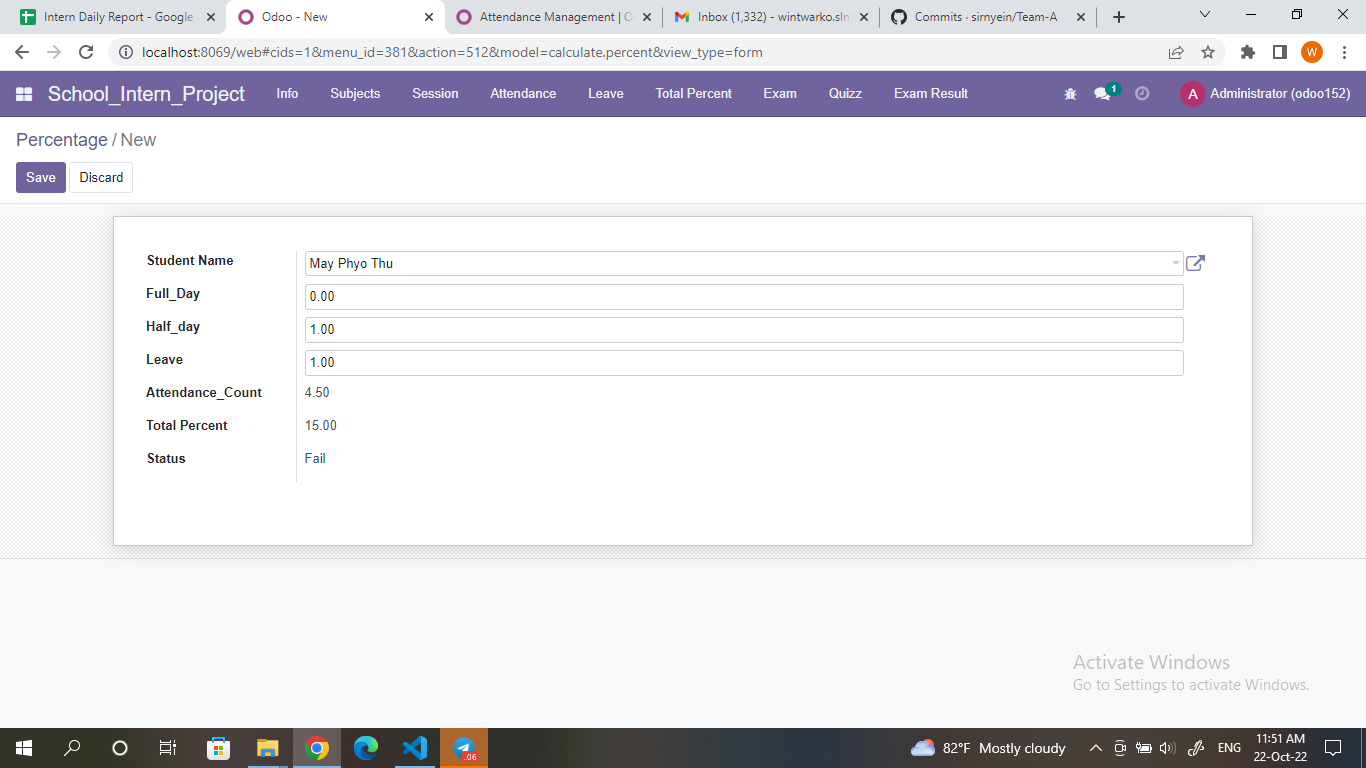
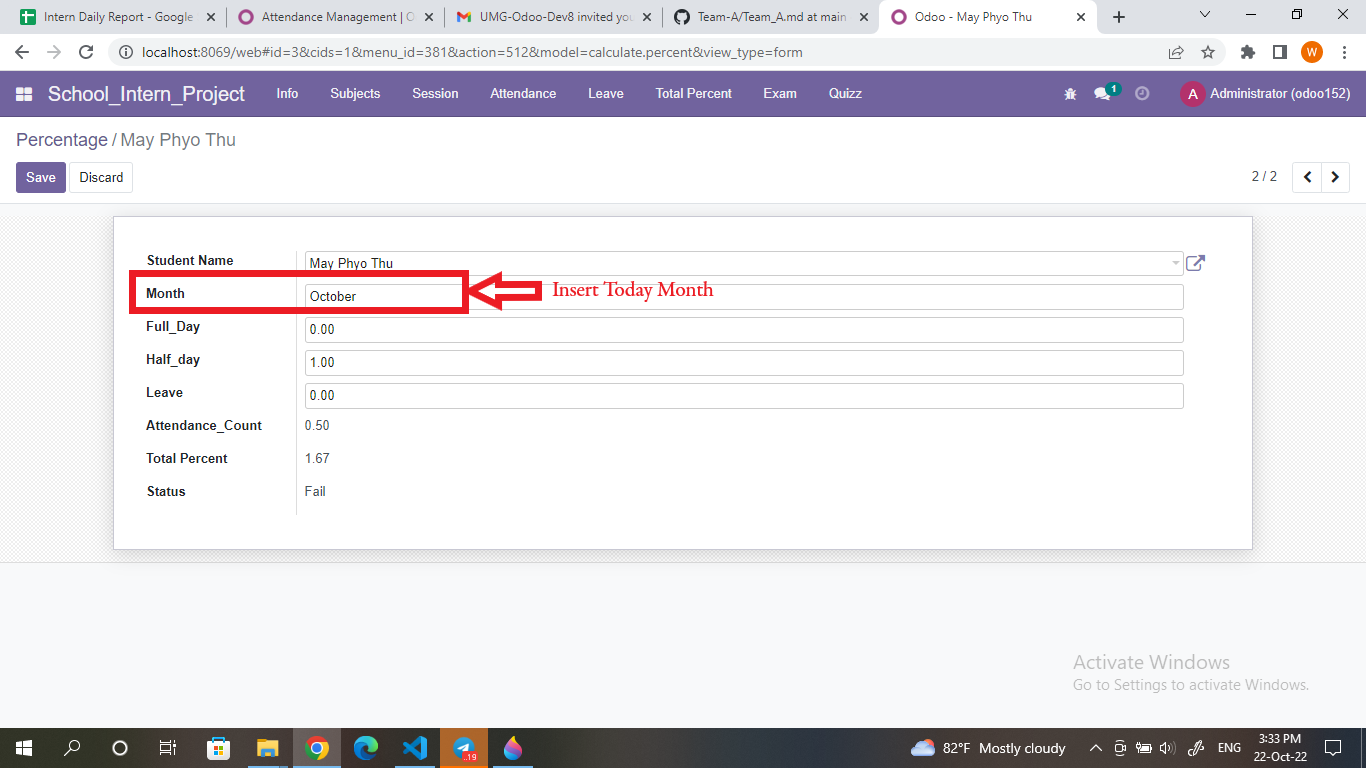
User's manual update by WWK

diff --git a/Team_A.md b/Team_A.md
@@ -21,7 +21,7 @@
     - [Test Exam and Generate Result](#test-exam-and-generate-result)
 
 ## Projcet Overview
-School management system is very convient for checking students' roll-call percentage and also useful  for saving attendance records for each student and test exams.<br>
+School management system is very convient for checking students' roll-call percentage and also useful  for saving attendance records for each student and for testing exams.<br>
     Functions of the system:
 - Manage attendance
 - Test Exam
@@ -55,6 +55,9 @@ Create new Teacher
 Create new Teacher Head
 ![create data](./images/teacher_head.png)
 
+Can see same role in a collection by chosing this options
+![create data](./images/search_panel.png)
+
 
 ### Add Data into Sections
 After creating needed data, you can add these data into sections. A section can have one teacher head, many teachers and many students. You need to define students' roll numbers and keep in mind to define like A1(Section A's roll-1), A2, B1(Section B's roll-1),B2 
@@ -66,17 +69,20 @@ After creating needed data, you can add these data into sections. A section can 
 ### Create Attendance
 Click on ***Attendance*** menuitem and create new attendance record for each student
 ![attendance](./images/attendance.png)
-![attendance](./images/attendance_one.png)
+Need to add today's month.
+![attendance](./images/attendance_record.png)
 
 ### Request Leave
 To request leave go to ***Leave*** menuitem. Can choose leave type,can define wanted durations by  selecting start date and end date.
 ![leave](./images/leave.png)
-![leave](./images/leave_request.png)
+Add today's month.
+![leave](./images/leave_req.png)
 
 ### View Roll call Percentage
 To See roll call percentage of each student, go to ***Total Percent*** menu.And then, by selecting student's name, can view that student's attendance record and roll call percent.
 ![total precent](./images/total_percent.png)
-![total precent](.images/total_percent_for_one.png)
+Insert today's month
+![total precent](./images/total_percent_for_one.png)
 
 ### Create Exam Questions
 Go to ***Quizz***  menu and write questions and define correct answers. Can also define scores for each questions and can hide some questions that do not want to show in exam form view by removing check mark  in the active column .
